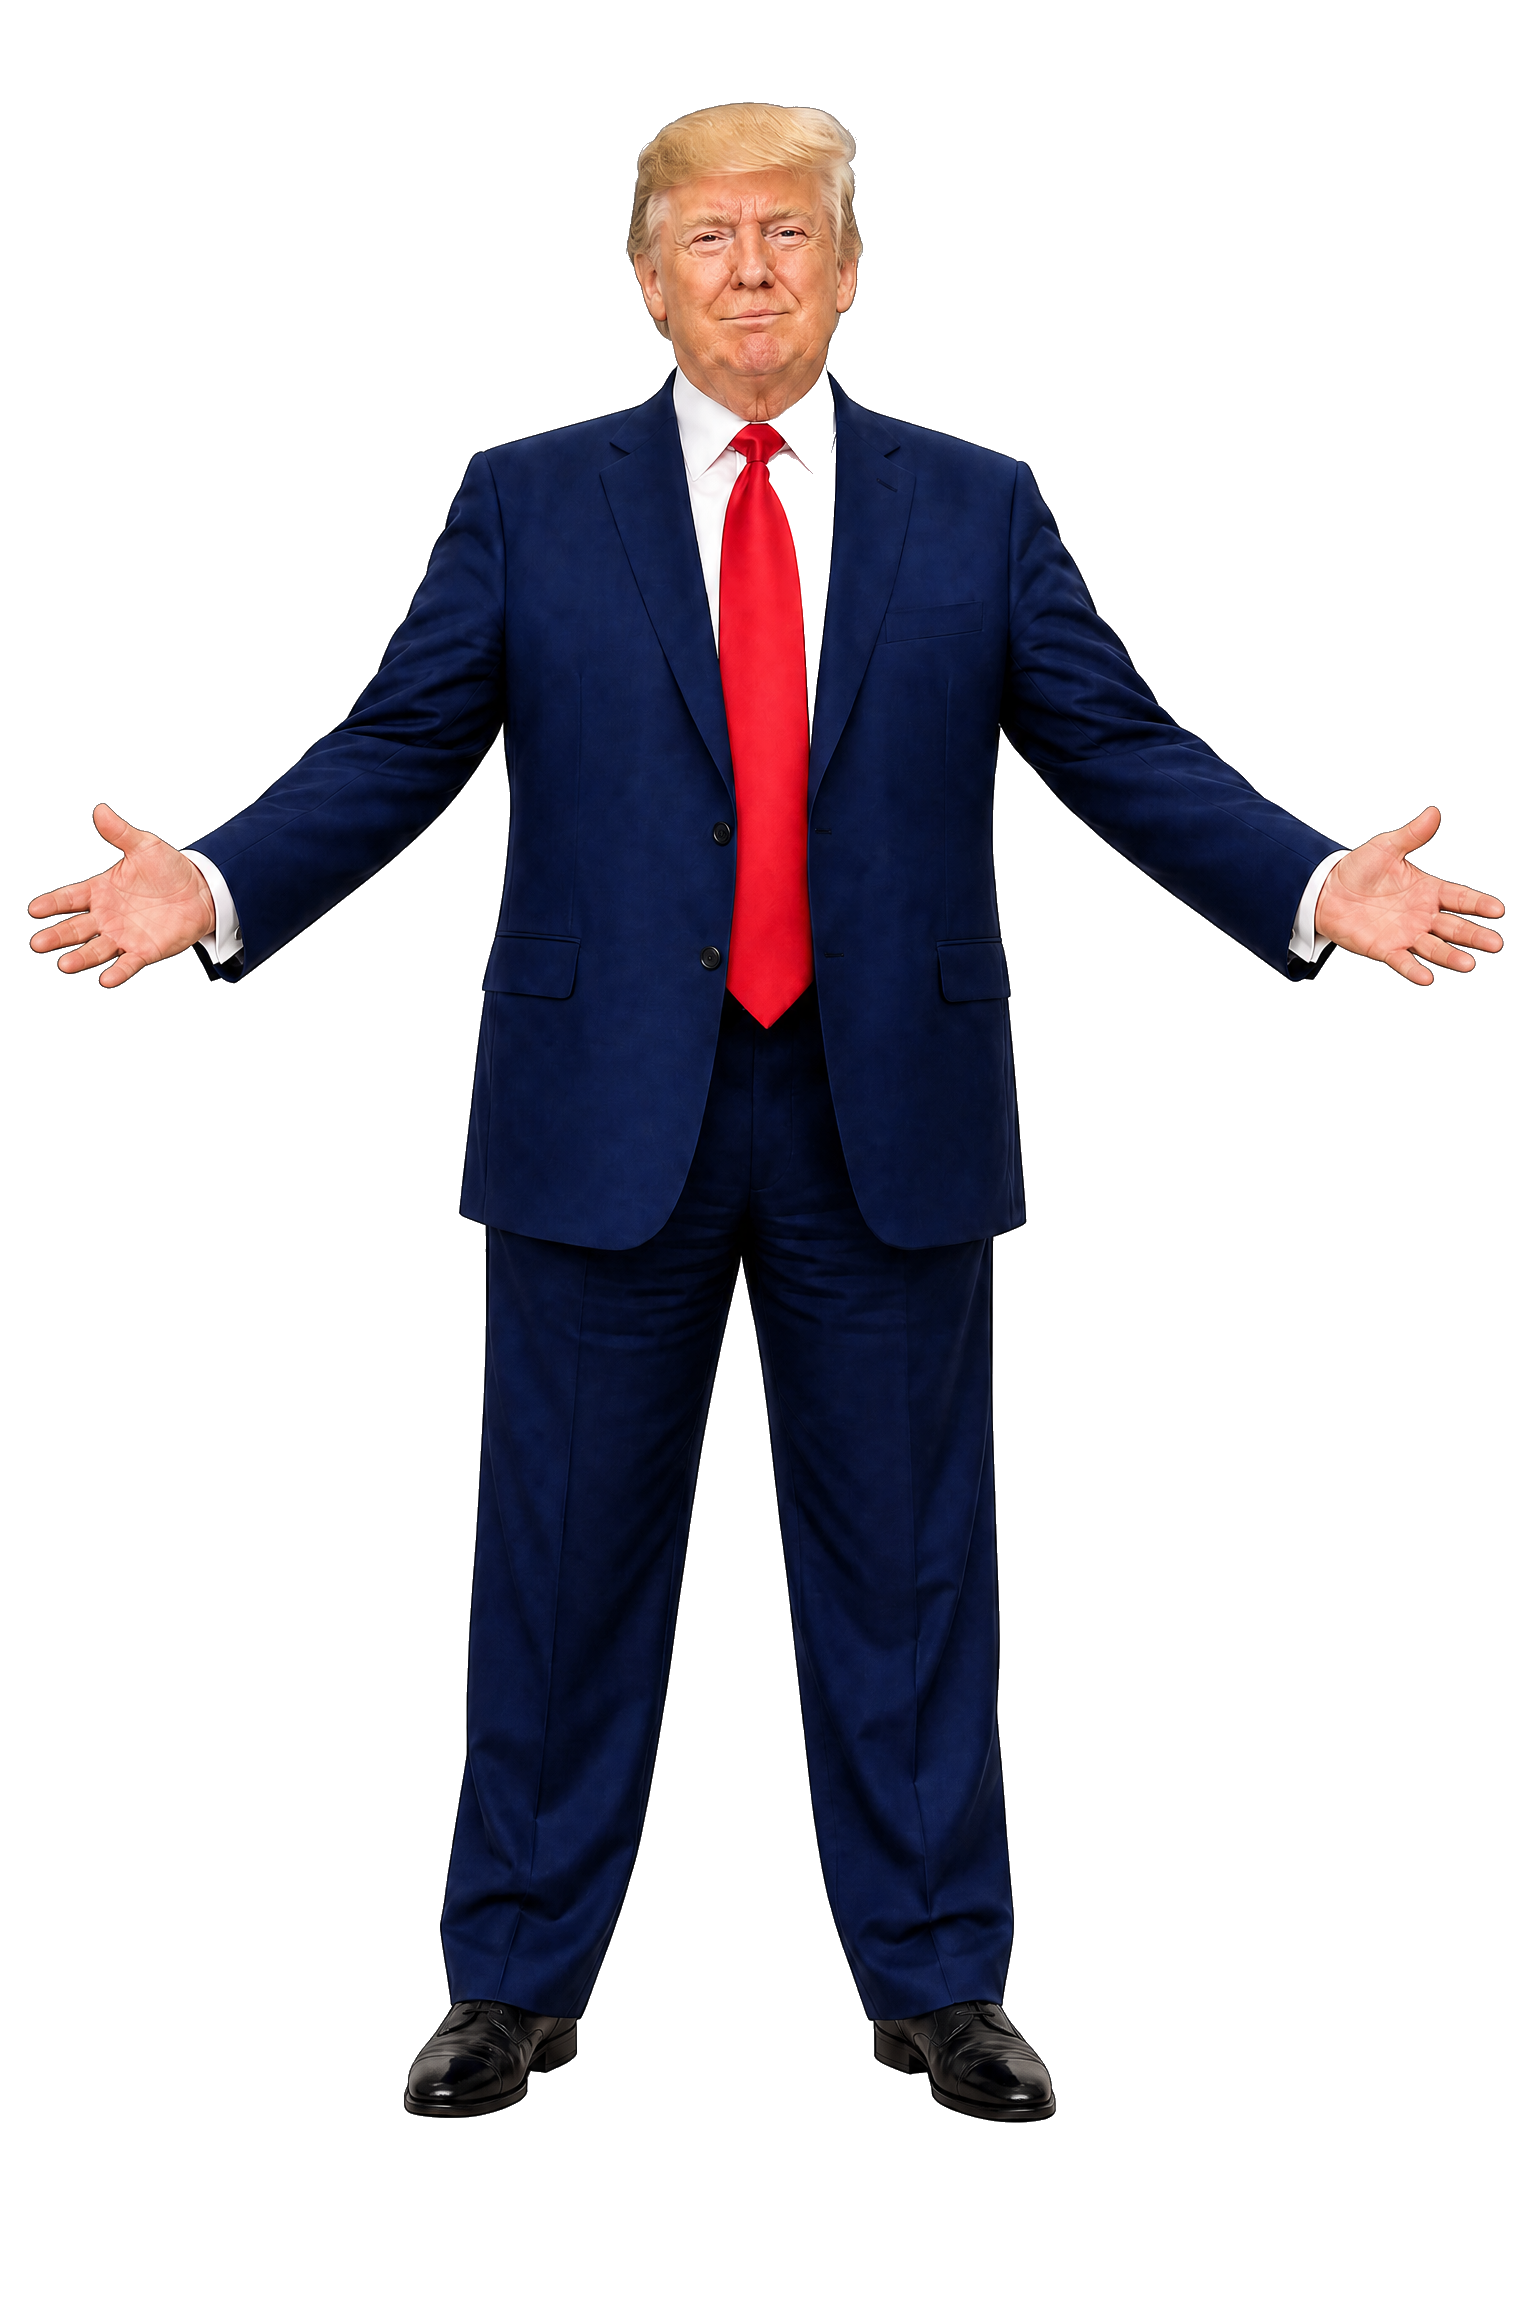
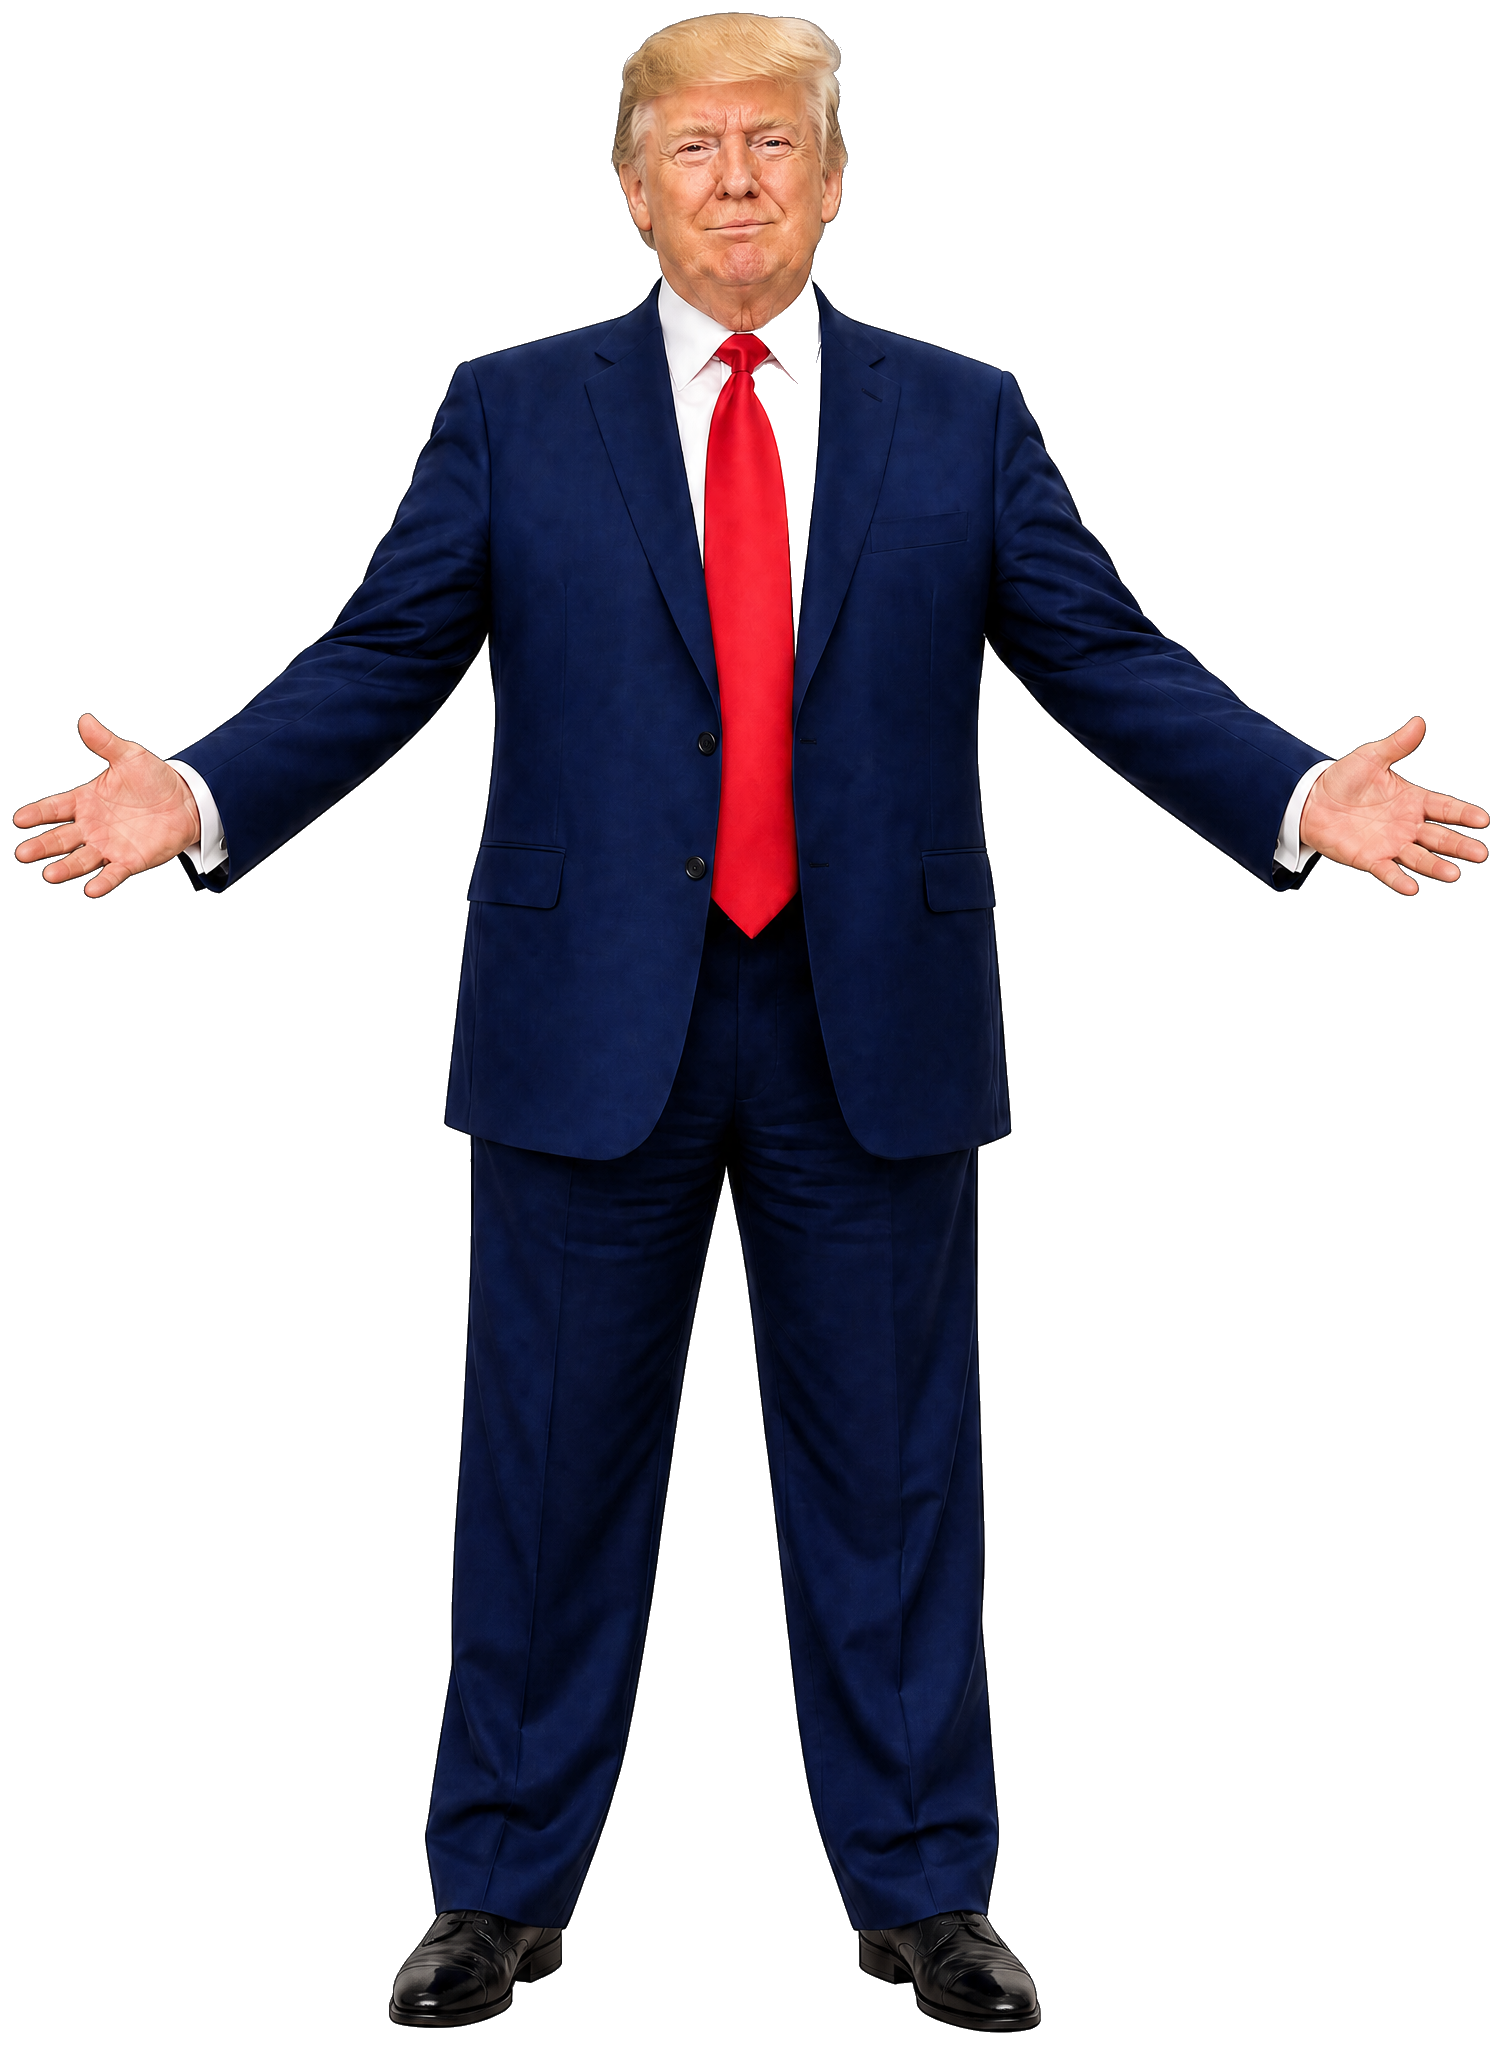
Expand sourced quotes and refine reflection

diff --git a/js/messages.js b/js/messages.js
@@ -31,4 +31,74 @@ export const QUOTES = [
     source: "Late-night Trump tweet, May 2017 — TIME",
     url: "https://time.com/4815850/donald-trump-covfefe-tweet-mike-quigley/",
   },
+  {
+    text: "Actually, throughout my life, my two greatest assets have been mental stability and being, like, really smart.",
+    source: "January 2018 tweet — NPR",
+    url: "https://www.npr.org/sections/thetwo-way/2018/01/06/576204103/a-very-stable-genius-trump-responds-to-renewed-criticism-of-his-mental-state",
+  },
+  {
+    text: "I think that would qualify as not smart, but genius ... and a very stable genius at that!",
+    source: "January 2018 tweet — PBS NewsHour",
+    url: "https://www.pbs.org/newshour/politics/trump-says-hes-like-really-smart-a-very-stable-genius",
+  },
+  {
+    text: "I know more about drones than anybody. I know about every form of safety that you can have.",
+    source: "January 2019 remarks — Axios source collection",
+    url: "https://www.axios.com/2019/01/05/everything-trump-says-he-knows-more-about-than-anybody",
+  },
+  {
+    text: "I know more about ISIS than the generals do.",
+    source: "November 2015 statement — Axios source collection",
+    url: "https://www.axios.com/2019/01/05/everything-trump-says-he-knows-more-about-than-anybody",
+  },
+  {
+    text: "I know more about courts than any human being on Earth.",
+    source: "November 2015 statement — Axios source collection",
+    url: "https://www.axios.com/2019/01/05/everything-trump-says-he-knows-more-about-than-anybody",
+  },
+  {
+    text: "I know more about renewables than any human being on Earth.",
+    source: "April 2016 statement — Axios source collection",
+    url: "https://www.axios.com/2019/01/05/everything-trump-says-he-knows-more-about-than-anybody",
+  },
+  {
+    text: "I think nobody knows more about taxes than I do, maybe in the history of the world.",
+    source: "May 2016 statement — Axios source collection",
+    url: "https://www.axios.com/2019/01/05/everything-trump-says-he-knows-more-about-than-anybody",
+  },
+  {
+    text: "I'm the king of debt. I'm great with debt. Nobody knows debt better than me.",
+    source: "June 2016 statement — Axios source collection",
+    url: "https://www.axios.com/2019/01/05/everything-trump-says-he-knows-more-about-than-anybody",
+  },
+  {
+    text: "I understand money better than anybody.",
+    source: "June 2016 statement — Axios source collection",
+    url: "https://www.axios.com/2019/01/05/everything-trump-says-he-knows-more-about-than-anybody",
+  },
+  {
+    text: "Look, as a builder, nobody in the history of this country has ever known so much about infrastructure as Donald Trump.",
+    source: "July 2016 statement — Axios source collection",
+    url: "https://www.axios.com/2019/01/05/everything-trump-says-he-knows-more-about-than-anybody",
+  },
+  {
+    text: "Technology — nobody knows more about technology than me.",
+    source: "December 2018 statement — Axios source collection",
+    url: "https://www.axios.com/2019/01/05/everything-trump-says-he-knows-more-about-than-anybody",
+  },
+  {
+    text: "I think nobody knows more about campaign finance than I do, because I'm the biggest contributor.",
+    source: "1999 statement — Axios source collection",
+    url: "https://www.axios.com/2019/01/05/everything-trump-says-he-knows-more-about-than-anybody",
+  },
+  {
+    text: "And they say the noise causes cancer, you tell me that one, okay?",
+    source: "April 2019 NRCC speech — FactCheck.org",
+    url: "https://www.factcheck.org/2019/04/trumps-faulty-wind-power-claims/",
+  },
+  {
+    text: "It's like a graveyard for birds. If you love birds, you'd never want to walk under a windmill because it's a very sad, sad sight. It's like a cemetery.",
+    source: "April 2019 NRCC speech — FactCheck.org",
+    url: "https://www.factcheck.org/2019/04/trumps-faulty-wind-power-claims/",
+  },
 ];

diff --git a/css/styles.css b/css/styles.css
@@ -13,6 +13,7 @@ body { margin: 0; }
 .character-stage {
   --horizon: 62%;
   --figure-right: clamp(14px, 3vw, 42px);
+  --figure-height: clamp(172px, 19vw, 240px);
   position: fixed;
   inset: 0;
   overflow: hidden;
@@ -38,13 +39,14 @@ body { margin: 0; }
 .character-reflection {
   position: absolute;
   right: var(--figure-right);
-  width: clamp(108px, 12vw, 160px);
+  width: auto;
+  height: var(--figure-height);
   margin: 0;
   pointer-events: none;
 }
 
 .character {
-  top: calc(var(--horizon) - clamp(172px, 19vw, 240px));
+  top: calc(var(--horizon) - var(--figure-height));
   z-index: 2;
   filter: drop-shadow(0 4px 3px rgba(0, 0, 0, 0.16));
   transform: translateX(130px);
@@ -52,20 +54,20 @@ body { margin: 0; }
 }
 
 .character-reflection {
-  top: var(--horizon);
+  top: calc(var(--horizon) + var(--figure-height));
   z-index: 1;
   transform: translateX(130px) scaleY(-1);
   transform-origin: top center;
-  opacity: 0.2;
-  filter: grayscale(1) contrast(0.75) brightness(1.25);
-  mask-image: linear-gradient(to bottom, rgba(0,0,0,0.9), rgba(0,0,0,0.34) 44%, transparent 90%);
+  opacity: 0.34;
+  filter: saturate(0.78) contrast(0.88) brightness(1.12) blur(0.35px);
+  mask-image: linear-gradient(to bottom, rgba(0,0,0,0.92), rgba(0,0,0,0.47) 46%, transparent 94%);
 }
 
 .character img,
 .character-reflection img {
   display: block;
-  width: 100%;
-  height: auto;
+  width: auto;
+  height: 100%;
 }
 
 .quote-bubble {

diff --git a/sources.md b/sources.md
@@ -1,0 +1,14 @@
+# Quotation Sources
+
+The MyTinyTrump quotation rotation contains documented public statements, not invented dialogue. The entries below record the sources used for the expansion.
+
+| Source | Verified statements selected for the rotation |
+| --- | --- |
+| [NPR: “A Very Stable Genius”](https://www.npr.org/sections/thetwo-way/2018/01/06/576204103/a-very-stable-genius-trump-responds-to-renewed-criticism-of-his-mental-state) | “my two greatest assets have been mental stability and being, like, really smart” and “a very stable genius.” |
+| [PBS NewsHour: “very stable genius”](https://www.pbs.org/newshour/politics/trump-says-hes-like-really-smart-a-very-stable-genius) | Context for the January 2018 public statements about being “like, really smart” and “a very stable genius.” |
+| [Axios: subjects Trump said he knew more about](https://www.axios.com/2019/01/05/everything-trump-says-he-knows-more-about-than-anybody) | Statements about drones, ISIS, courts, renewable energy, taxes, debt, money, infrastructure, technology, and campaign finance. |
+| [FactCheck.org: wind power claims](https://www.factcheck.org/2019/04/trumps-faulty-wind-power-claims/) | “And they say the noise causes cancer, you tell me that one, okay?” and the “graveyard for birds” comparison. |
+| [NPR: Fifth Avenue quotation](https://www.npr.org/sections/thetwo-way/2016/01/23/464129029/donald-trump-i-could-shoot-somebody-and-i-wouldnt-lose-any-voters) | The Fifth Avenue campaign-stop quotation. |
+| [C-SPAN: Hilton Head rally clip](https://www.c-span.org/clip/campaign-2016/user-clip-trump-i-know-words/4659877) | “I know words. I have the best words.” |
+| [POLITICO: 2016 RNC transcript](https://www.politico.com/story/2016/07/full-transcript-donald-trump-nomination-acceptance-speech-at-rnc-225974) | “I AM YOUR VOICE” and “I alone can fix it.” |
+| [TIME: covfefe article](https://time.com/4815850/donald-trump-covfefe-tweet-mike-quigley/) | The 2017 “covfefe” tweet. |

diff --git a/todo.md b/todo.md
@@ -1,3 +1,5 @@
 - [x] Add the requested Donald Trump character sprite and a small static preview; clean the generated background into a usable transparent cutout.
 - [x] Replace the generated sprite with the user-supplied clean image and finish the framework-free static implementation.
 - [x] Add a sourced, attributed rotation of notable documented Donald Trump quotations in vanilla JavaScript.
+- [x] Add at least 14 more verified and source-linked public quotations to the rotation.
+- [x] Ground the figure precisely at the black horizon and make the lower image read as a clear vertical reflection.
